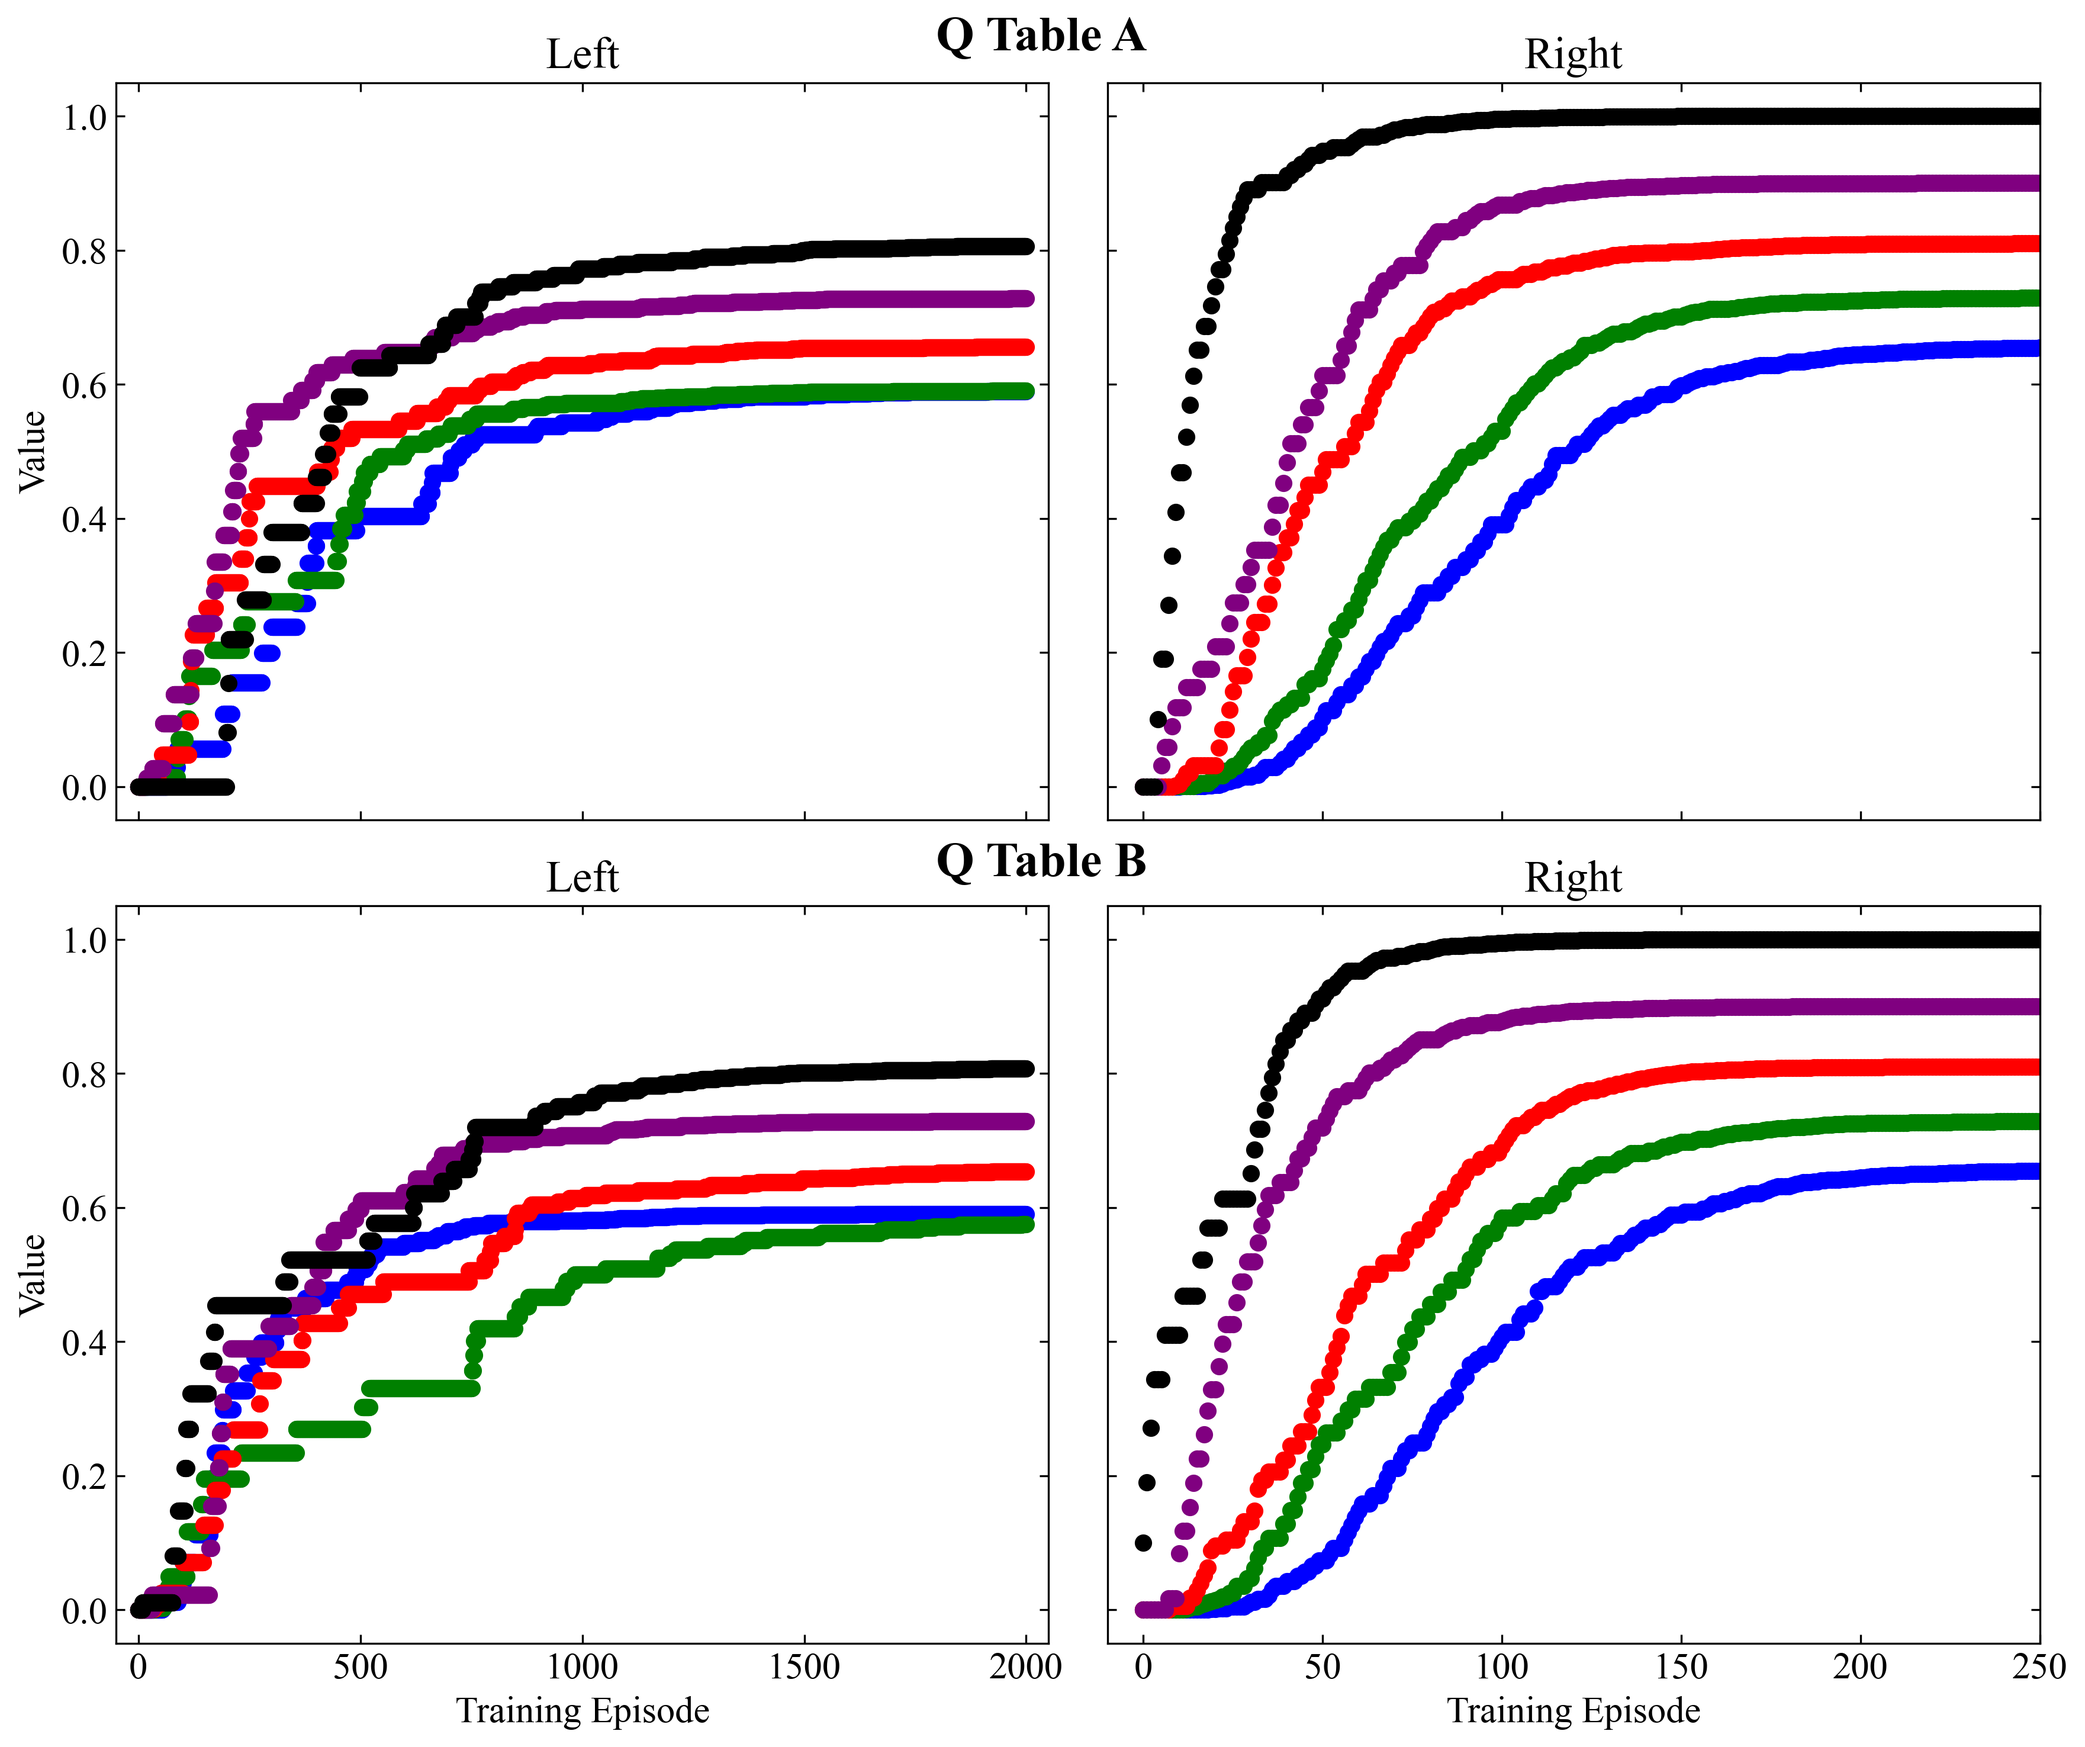
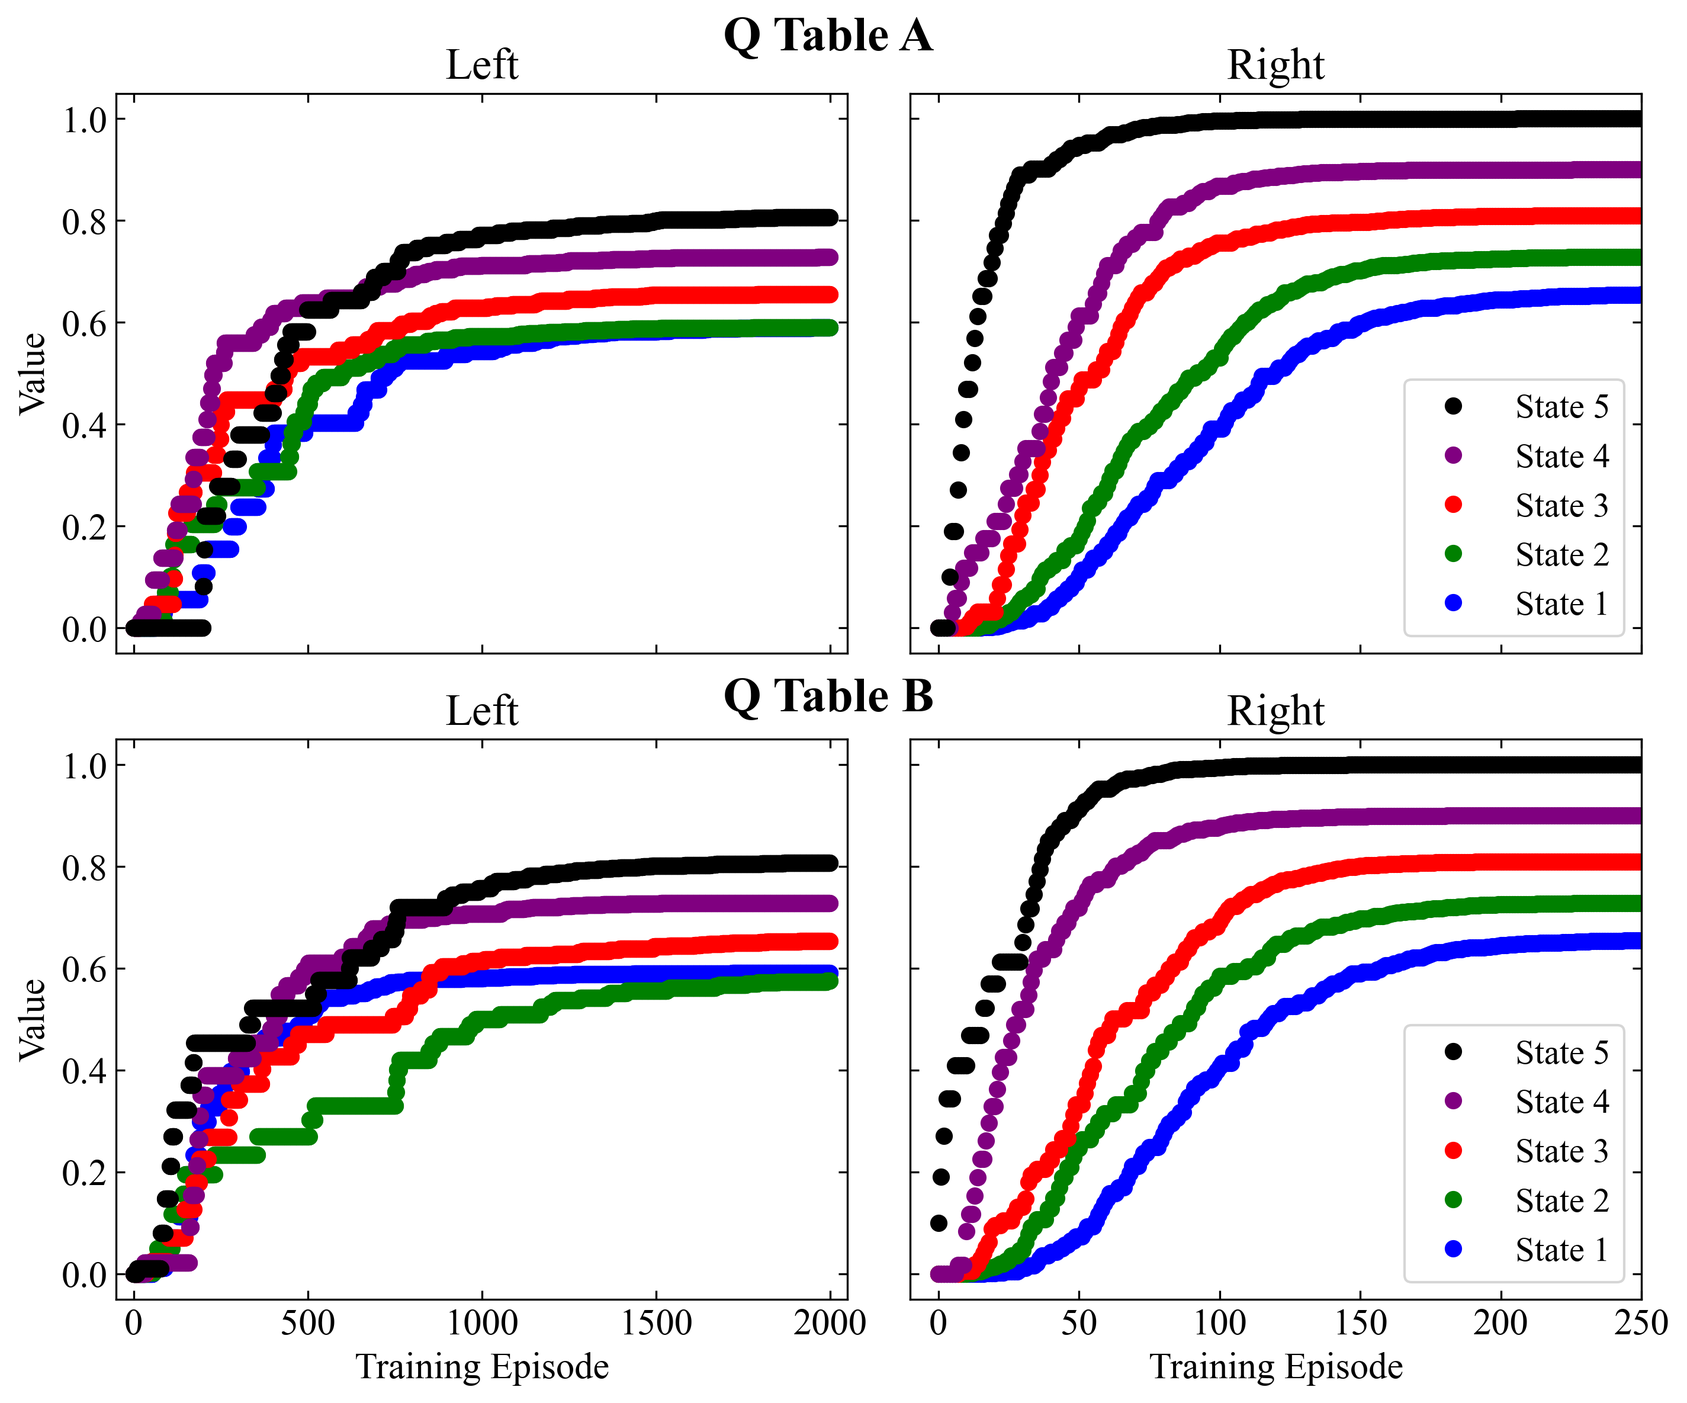
Treasure Hunt Files
Images

diff --git a/TreasureHunt/treasure_on_right.py b/TreasureHunt/treasure_on_right.py
@@ -159,13 +159,13 @@ for episode in range(MAX_EPISODES):
     right_qtable[episode, :] = q_table['right'].values
 
 # In[2]:
-ax, fig = axes(fig_number=1, rows = 1, columns=2)
+ax, fig = axes(fig_number=1, rows=1, columns=2, row_height=4, column_width=6*4/5)
 
 colors = ['b', 'g', 'r', 'purple', 'k']
 
 for state in range(5):
     ax[1].plot(left_qtable[:,state], 'o', color=colors[state])
-    ax[2].plot(right_qtable[:,state], 'o', color=colors[state])
+    ax[2].plot(right_qtable[:,state], 'o', color=colors[state], label = 'State {}'.format(state + 1))
 
 ax[1].set_ylim(ax[2].get_ylim())
 ax[2].set_xlim(-5, 205)
@@ -178,6 +178,11 @@ ax[2].set_title('Right')
 ax[1].set_ylabel('Value')
 ax[1].set_xlabel('Training Episode')
 ax[2].set_xlabel('Training Episode')
+
+handles, labels = ax[2].get_legend_handles_labels()
+order = [4,3,2,1,0]
+ax[2].legend([handles[idx] for idx in order],[labels[idx] for idx in order], fontsize=14)
+ax[2].set_yticklabels([])
 
 fig.tight_layout()
 
@@ -246,14 +251,14 @@ for episode in range(MAX_EPISODES):
 
 # In[4]:
 
-ax, fig = axes(rows = 2, columns=2)
+ax, fig = axes(rows = 2, columns=2, row_height=4, column_width=6*4/5)
 
 for state in range(5):
     ax[1].plot(left_qtable_A[:,state], 'o', color=colors[state])
-    ax[2].plot(right_qtable_A[:,state], 'o', color=colors[state])
+    ax[2].plot(right_qtable_A[:,state], 'o', color=colors[state], label = 'State {}'.format(state + 1))
 
     ax[3].plot(left_qtable_B[:,state], 'o', color=colors[state])
-    ax[4].plot(right_qtable_B[:,state], 'o', color=colors[state])
+    ax[4].plot(right_qtable_B[:,state], 'o', color=colors[state], label = 'State {}'.format(state + 1))
 
 ax[1].set_ylim(ax[2].get_ylim())
 ax[2].set_xlim(-10, 250)
@@ -282,6 +287,11 @@ ax[1].set_ylabel('Value')
 ax[3].set_ylabel('Value')
 ax[3].set_xlabel('Training Episode')
 ax[4].set_xlabel('Training Episode')
+
+handles, labels = ax[2].get_legend_handles_labels()
+order = [4,3,2,1,0]
+ax[2].legend([handles[idx] for idx in order],[labels[idx] for idx in order], fontsize=14)
+ax[4].legend([handles[idx] for idx in order],[labels[idx] for idx in order], fontsize=14)
 
 fig.tight_layout()
 
